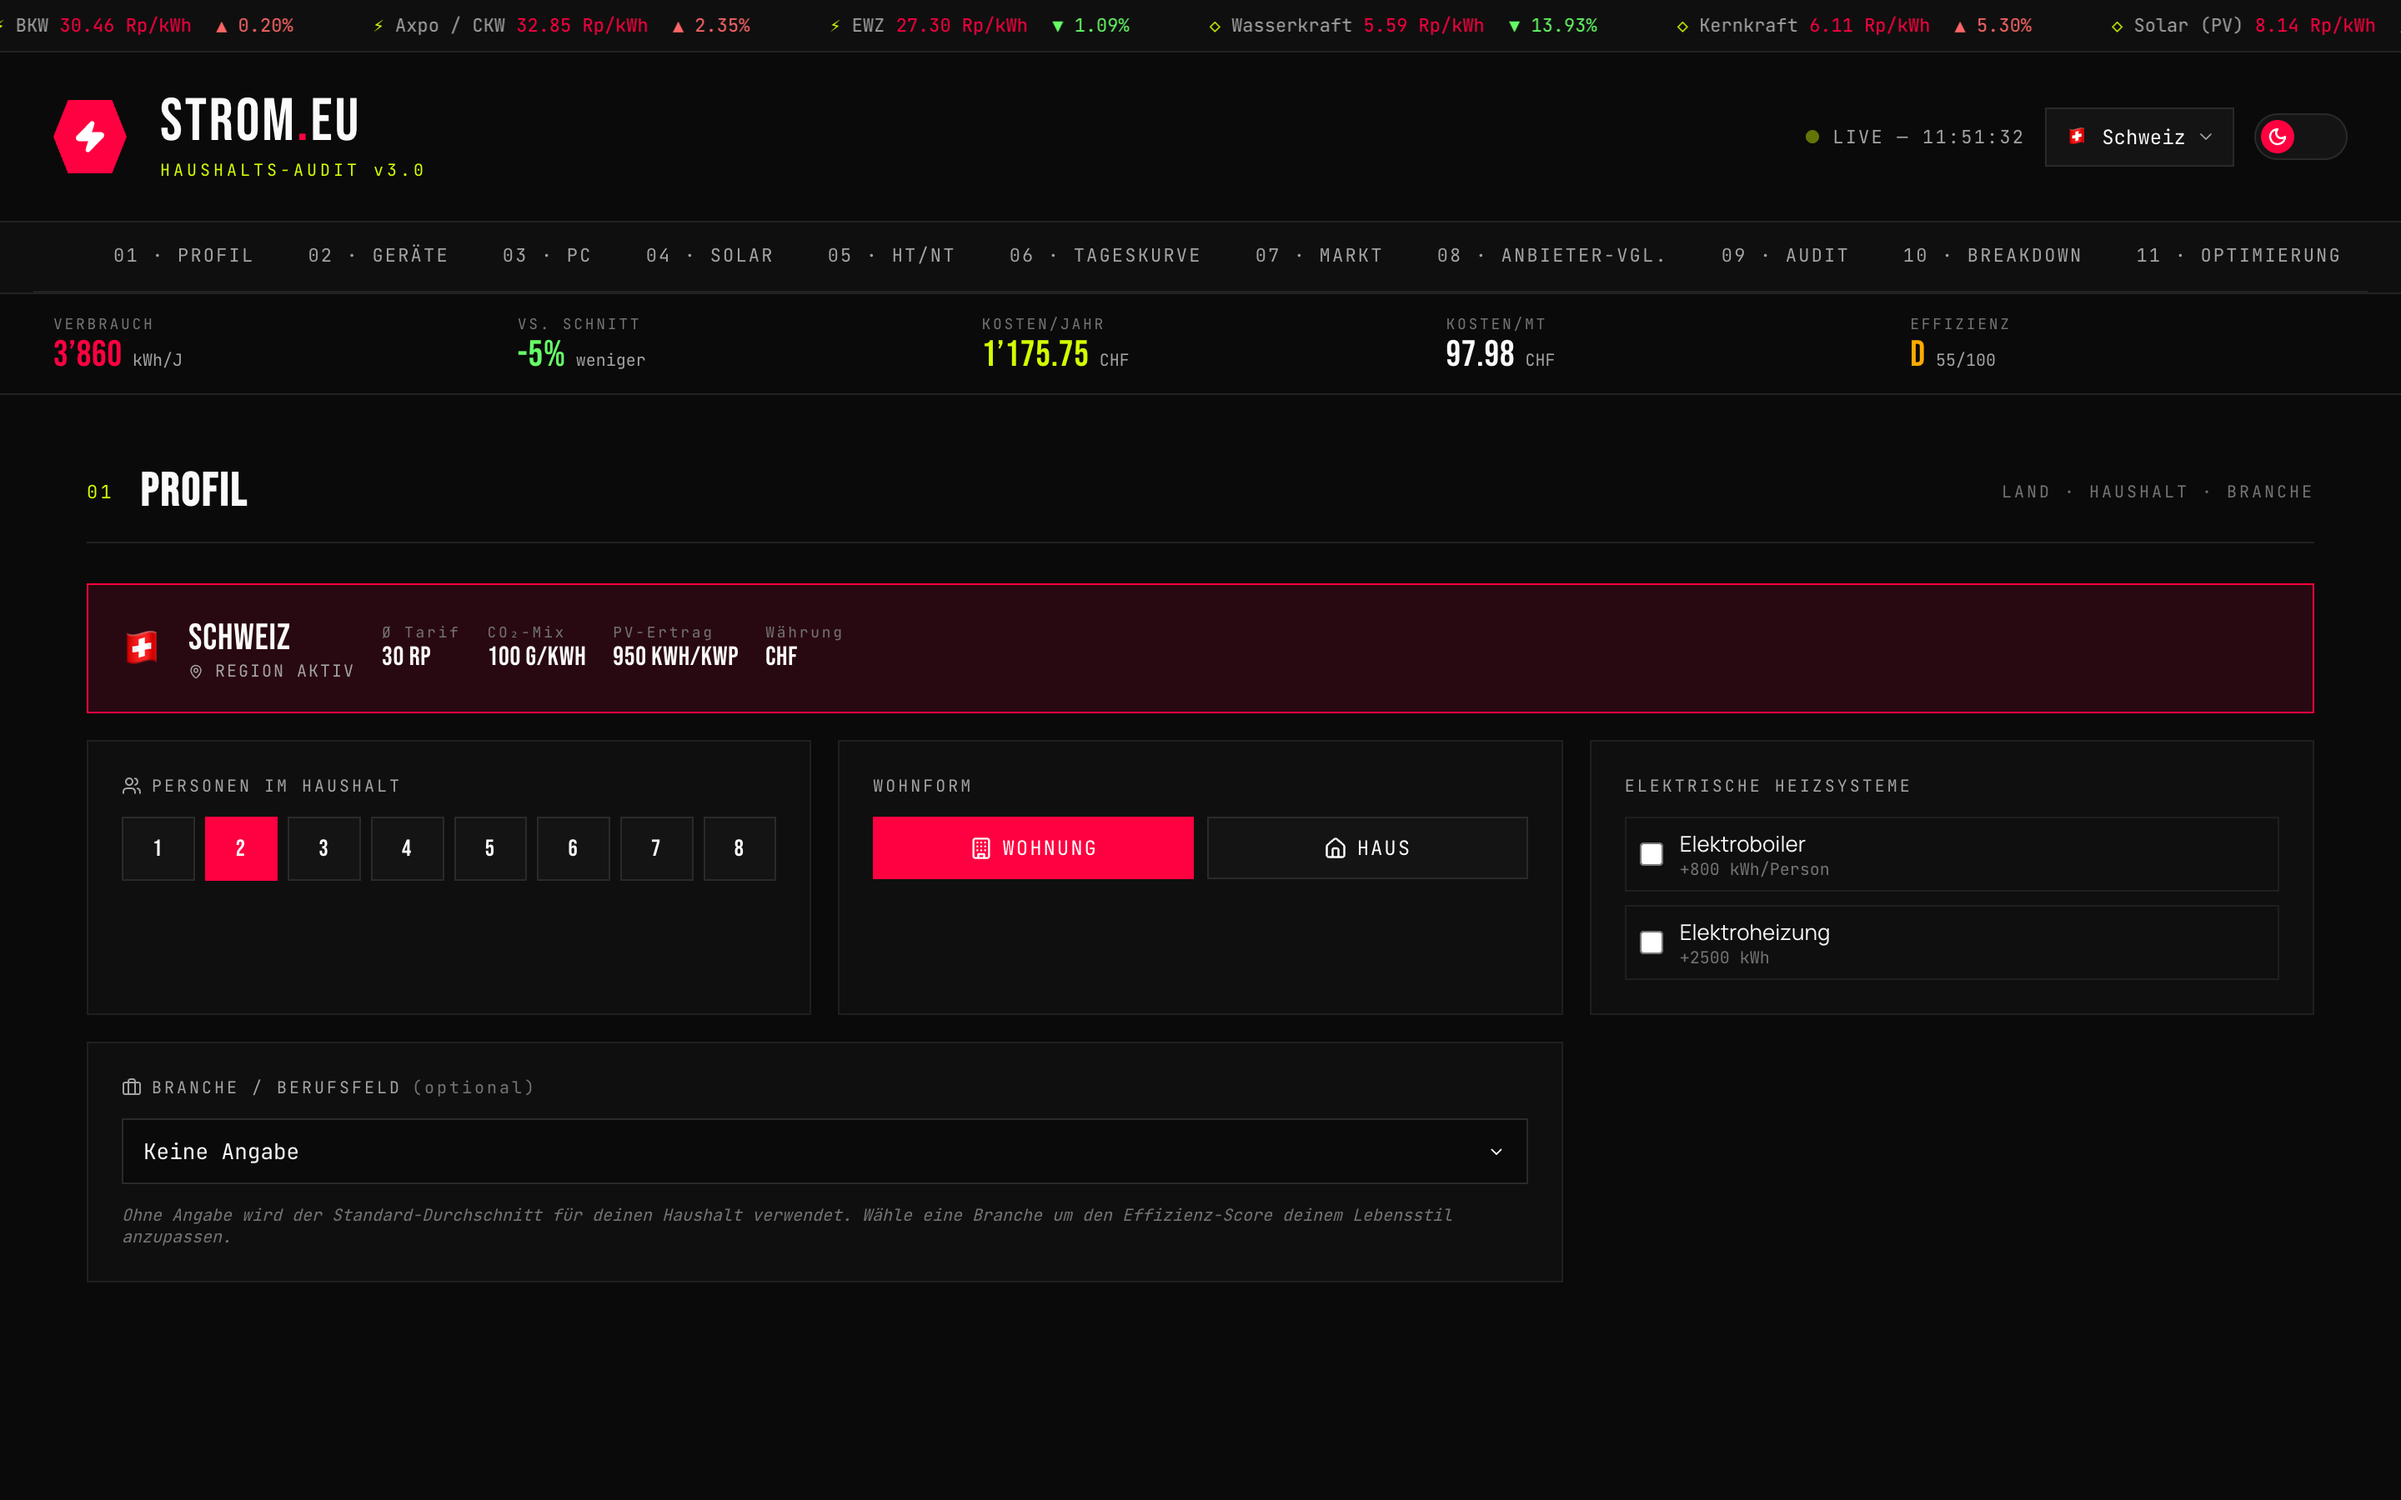
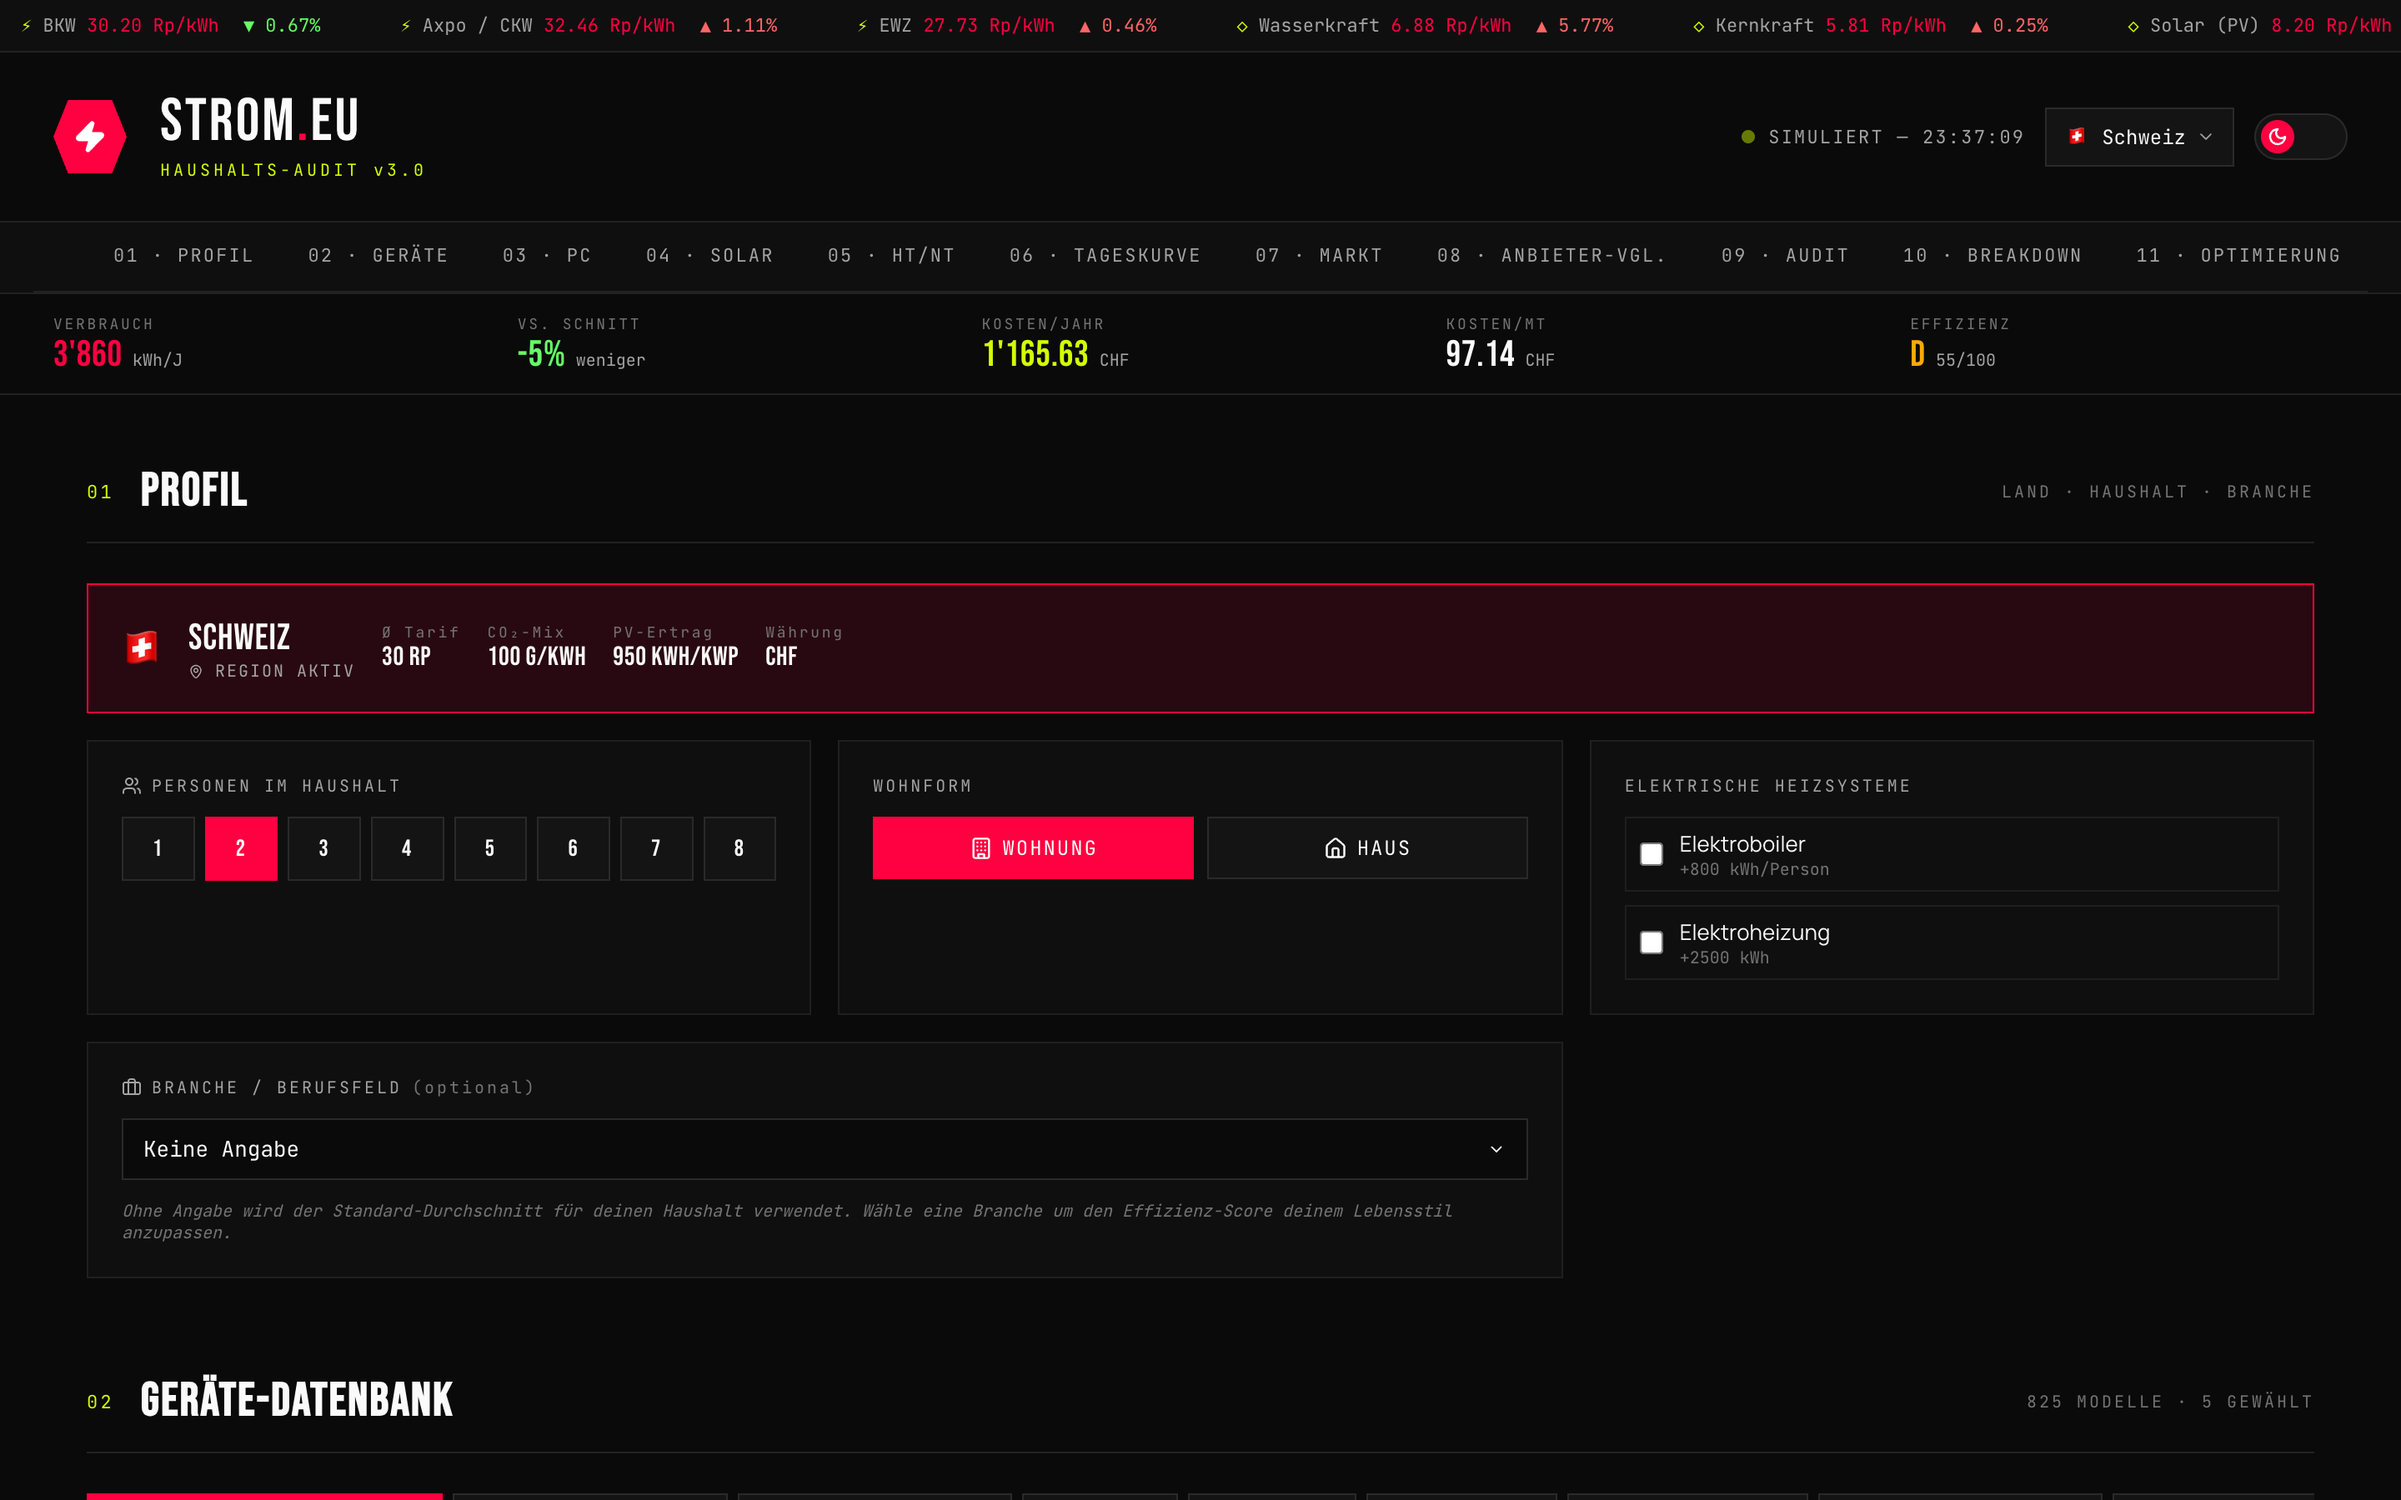
Label the market ticker as simulated and add MIT license
- Top bar and market section say "simuliert" instead of "LIVE", and the
  provider cards state that the prices are simulated, not real tariffs
- Refresh the screenshot to show the new label
- Add LICENSE (MIT) and a license section in the README

diff --git a/src/components/MarketSection.jsx b/src/components/MarketSection.jsx
@@ -8,7 +8,7 @@ export default function MarketSection({ providers, sources, selectedProvider, se
     <section id="section-markt" style={{ marginTop: 40 }}>
       <div className="section-bar">
         <span className="section-num">07</span>
-        <h2 className="section-title">STROMMARKT LIVE</h2>
+        <h2 className="section-title">STROMMARKT (SIMULIERT)</h2>
         <div style={{ flex: 1 }}></div>
         <div
           className="mono"
@@ -34,7 +34,7 @@ export default function MarketSection({ providers, sources, selectedProvider, se
           marginBottom: 8,
         }}
       >
-        STROMANBIETER · {country.name.toUpperCase()}
+        STROMANBIETER · {country.name.toUpperCase()} · PREISE SIMULIERT, KEINE ECHTEN TARIFE
       </div>
       <div
         style={{

diff --git a/src/components/TopBar.jsx b/src/components/TopBar.jsx
@@ -110,7 +110,9 @@ export default function TopBar({ theme, onThemeToggle, countryId, onCountryChang
             }}
           >
             <span className="live-dot"></span>
-            <span>LIVE — {tick.toLocaleTimeString('de-CH')}</span>
+            <span title="Marktpreise werden zufällig simuliert, keine Echtzeitdaten">
+              SIMULIERT — {tick.toLocaleTimeString('de-CH')}
+            </span>
           </div>
           <CountryPicker countryId={countryId} onChange={onCountryChange} />
           <ThemeToggle theme={theme} onToggle={onThemeToggle} />

diff --git a/README.md b/README.md
@@ -13,7 +13,7 @@ The data model is built around Swiss and EU reference figures (ElCom tariffs, BF
 - **PC / gaming calculator** — CPU & GPU picker with idle/light/heavy usage patterns, plus fallback profiles (Office / Gaming / High-End)
 - **Solar / PV simulation** — self-consumption, grid feed-in, battery, payback period, and yield per kWp by country
 - **HT/NT tariff calculator** — high/low-tariff modeling and a 24-hour load-curve visualization by industry
-- **Simulated live market ticker** — provider prices, energy-source prices, and a provider comparison
+- **Simulated market ticker** — provider prices, energy-source prices, and a provider comparison. The prices move randomly around reference values and are labeled "simuliert" in the UI; they are not real-time tariffs of the named providers
 - **Efficiency dashboard** — A–G grade, personalized expected value, and CO₂ balance
 - **Optimization plan** — top-5 energy hogs and a Paris climate-goal check
 - **Scenarios** — save / load / delete via localStorage and export to JSON
@@ -56,3 +56,7 @@ The UI is in German (CH/EU audience). Code, comments, and data labels are predom
 ## Screenshots
 
 ![Electricity audit dashboard](screenshots/demo.png)
+
+## License
+
+MIT, see [LICENSE](LICENSE). npm dependencies keep their own licenses.
